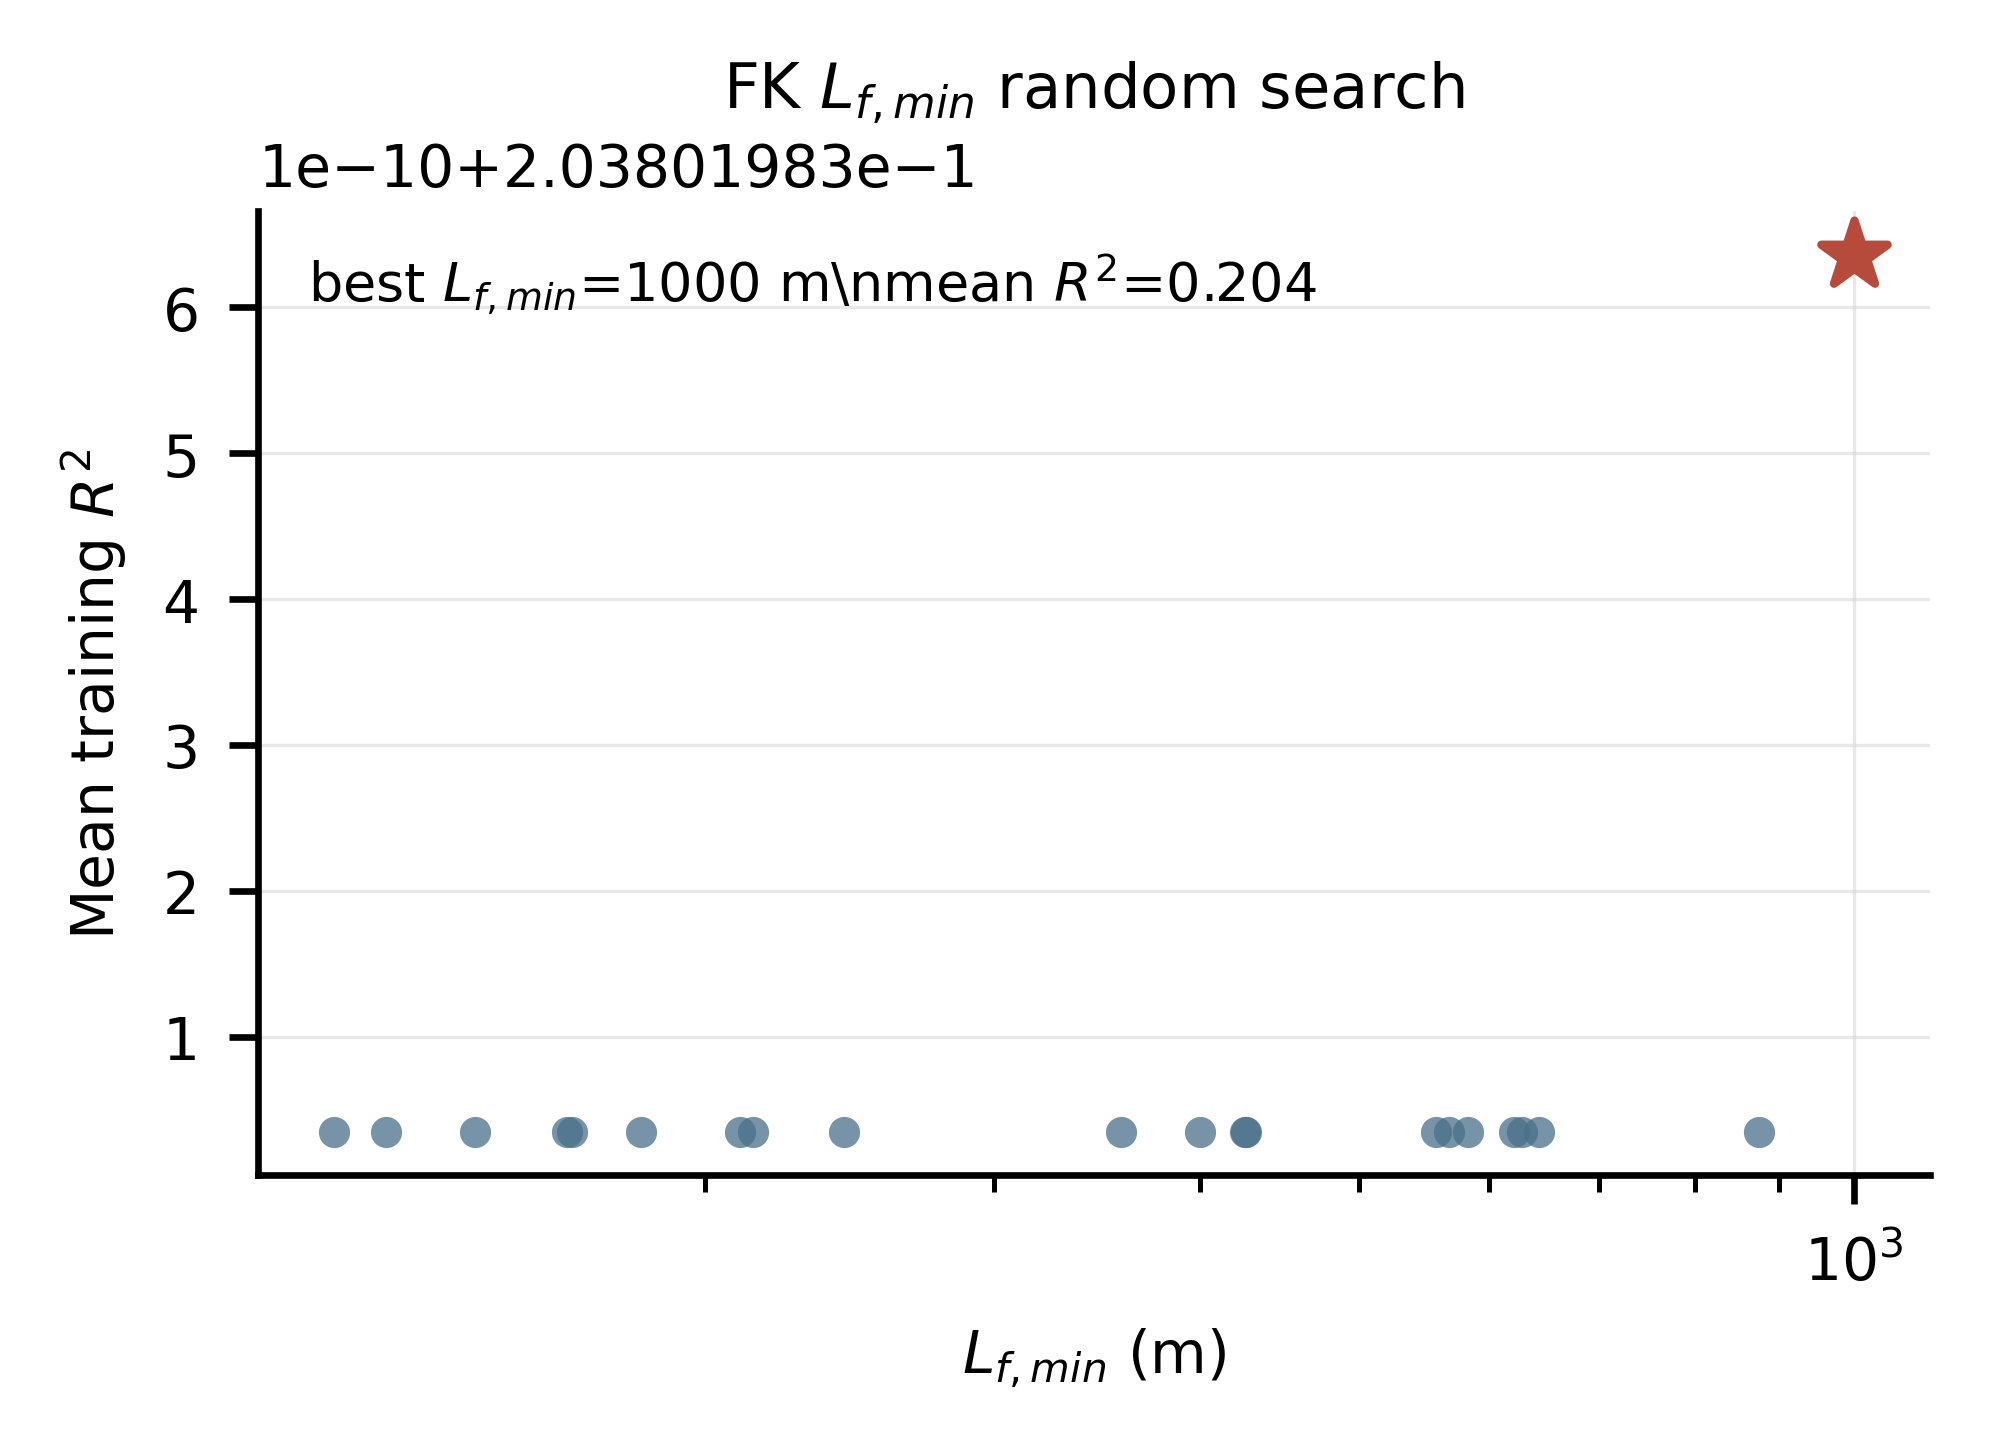
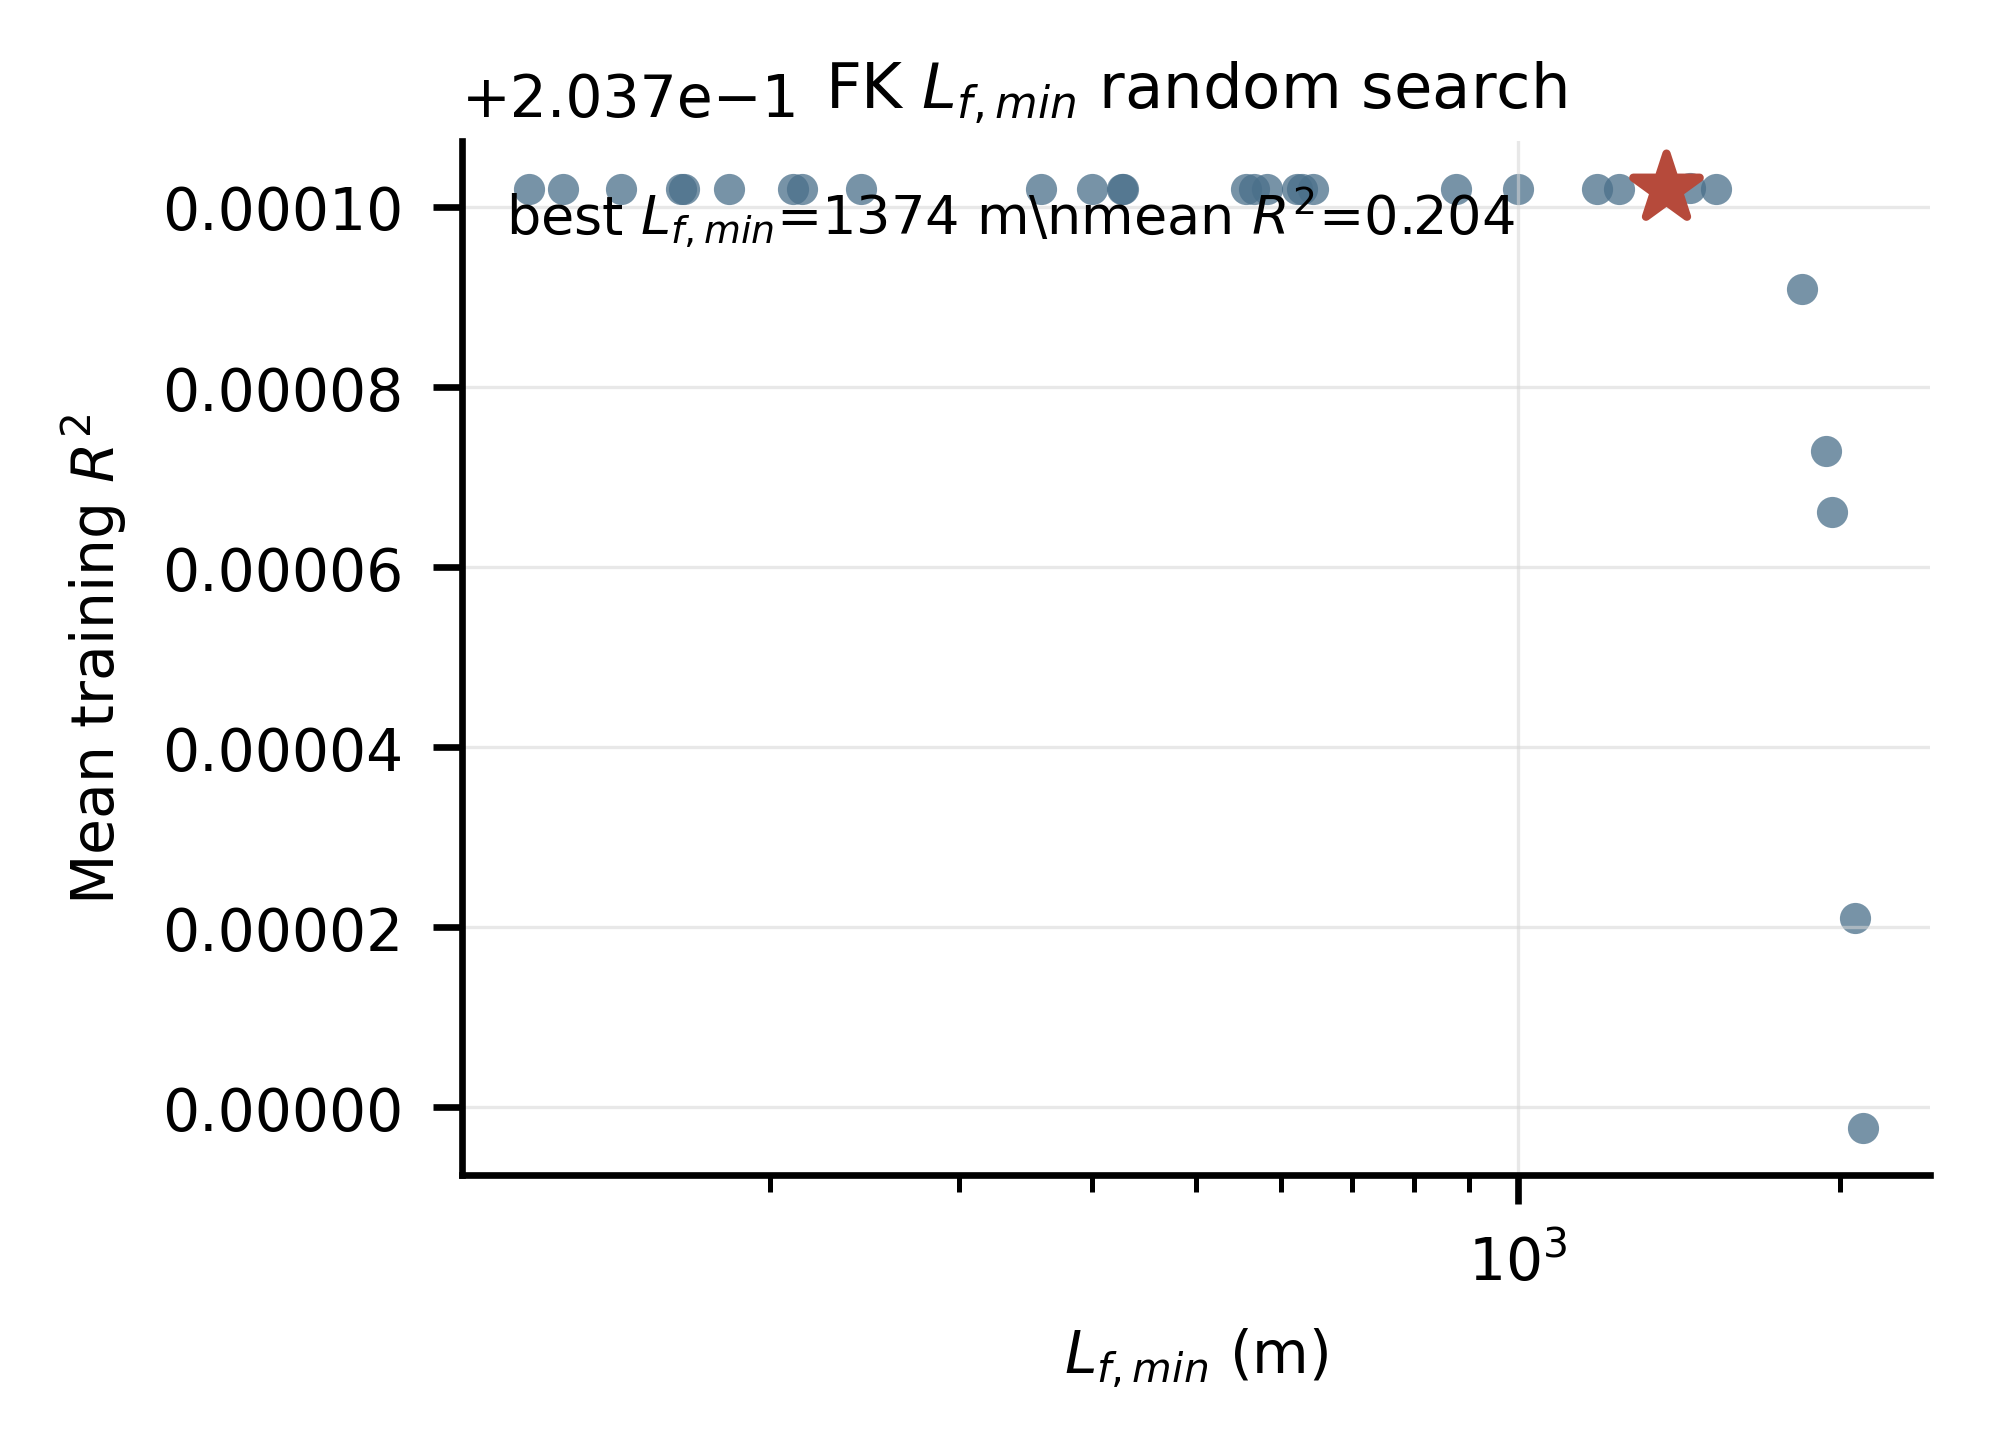
updated the figures based on the new tuned fk mle

diff --git a/_src/analysis/fk_mle/upper_40x20/plot_fk_tuning_combined.py b/_src/analysis/fk_mle/upper_40x20/plot_fk_tuning_combined.py
@@ -1,0 +1,95 @@
+#!/usr/bin/env python3
+"""Plot FK C_e and LfMin sensitivity curves in one simple figure."""
+
+from __future__ import annotations
+
+import argparse
+import csv
+from pathlib import Path
+
+import matplotlib as mpl
+import matplotlib.pyplot as plt
+import numpy as np
+
+HERE = Path(__file__).resolve().parent
+
+
+def parse_args() -> argparse.Namespace:
+    parser = argparse.ArgumentParser(description=__doc__)
+    parser.add_argument("--ce-csv", type=Path, default=HERE / "Ce_base_case_calculation/ce_random_search_history.csv")
+    parser.add_argument("--lfmin-csv", type=Path, default=HERE / "LfMin_test/lfmin_random_search_history.csv")
+    parser.add_argument("--output", type=Path, default=HERE / "fk_random_search_combined_r2.png")
+    return parser.parse_args()
+
+
+def read_xy(path: Path, x_key: str) -> tuple[np.ndarray, np.ndarray]:
+    x, y = [], []
+    with path.open("r", newline="") as handle:
+        reader = csv.DictReader(handle)
+        for row in reader:
+            x.append(float(row[x_key]))
+            y.append(float(row["mean_per_snapshot_r2"]))
+    x_arr = np.asarray(x, dtype=float)
+    y_arr = np.asarray(y, dtype=float)
+    order = np.argsort(x_arr)
+    return x_arr[order], y_arr[order]
+
+
+def apply_style() -> None:
+    mpl.rcParams.update(
+        {
+            "font.family": "sans-serif",
+            "font.sans-serif": ["Arial", "Helvetica", "DejaVu Sans", "Liberation Sans", "sans-serif"],
+            "font.size": 8,
+            "axes.spines.right": False,
+            "axes.spines.top": False,
+            "axes.linewidth": 0.8,
+            "axes.edgecolor": "#777777",
+            "xtick.color": "#333333",
+            "ytick.color": "#333333",
+            "xtick.major.width": 0.8,
+            "ytick.major.width": 0.8,
+            "figure.facecolor": "white",
+            "axes.facecolor": "white",
+        }
+    )
+
+
+def main() -> None:
+    args = parse_args()
+    ce, ce_r2 = read_xy(args.ce_csv, "C_e")
+    lfmin, lfmin_r2 = read_xy(args.lfmin_csv, "LfMin")
+
+    apply_style()
+    fig, axes = plt.subplots(1, 2, figsize=(7.2, 2.8), sharey=False, constrained_layout=True)
+
+    axes[0].scatter(ce, ce_r2, s=26, color="#2C6688", alpha=0.72, linewidths=0, zorder=5)
+    axes[0].set_title(r"$C_e$ sensitivity", fontsize=10, pad=6)
+    axes[0].set_xlabel(r"$C_e$", fontsize=9)
+    axes[0].set_ylabel(r"Mean per-snapshot $R^2$", fontsize=9)
+
+    axes[1].plot(lfmin, lfmin_r2, color="#B84D3E", linewidth=1.2, alpha=0.75, zorder=3)
+    axes[1].scatter(lfmin, lfmin_r2, s=32, color="#B84D3E", edgecolor="white", linewidth=0.5, zorder=5)
+    axes[1].set_xscale("log")
+    axes[1].set_xlim(100, max(2500.0, float(np.nanmax(lfmin)) * 1.15))
+    y_pad = max((float(np.nanmax(lfmin_r2)) - float(np.nanmin(lfmin_r2))) * 0.18, 1.0e-5)
+    axes[1].set_ylim(float(np.nanmin(lfmin_r2)) - y_pad, float(np.nanmax(lfmin_r2)) + y_pad)
+    axes[1].yaxis.set_major_locator(mpl.ticker.MaxNLocator(nbins=4))
+    axes[1].yaxis.set_major_formatter(mpl.ticker.FormatStrFormatter("%.2f"))
+    axes[1].set_title(r"$L_{f,\min}$ sensitivity", fontsize=10, pad=6)
+    axes[1].set_xlabel(r"$L_{f,\min}$ (m)", fontsize=9)
+    axes[1].set_ylabel(r"Mean per-snapshot $R^2$", fontsize=9)
+
+    for ax in axes:
+        ax.set_axisbelow(True)
+        ax.grid(axis="y", color="#E5E5E5", linewidth=0.7, zorder=0)
+        ax.tick_params(labelsize=8)
+
+    args.output.parent.mkdir(parents=True, exist_ok=True)
+    fig.savefig(args.output, dpi=600, bbox_inches="tight")
+    plt.close(fig)
+    print(f"Saved {args.output}", flush=True)
+
+
+if __name__ == "__main__":
+    main()

diff --git a/_src/analysis/fk_mle/upper_40x20/fk_tuning_history_plot.py b/_src/analysis/fk_mle/upper_40x20/fk_tuning_history_plot.py
@@ -1,0 +1,95 @@
+#!/usr/bin/env python3
+"""Plot FK C_e and LfMin sensitivity curves in one simple figure."""
+
+from __future__ import annotations
+
+import argparse
+import csv
+from pathlib import Path
+
+import matplotlib as mpl
+import matplotlib.pyplot as plt
+import numpy as np
+
+HERE = Path(__file__).resolve().parent
+
+
+def parse_args() -> argparse.Namespace:
+    parser = argparse.ArgumentParser(description=__doc__)
+    parser.add_argument("--ce-csv", type=Path, default=HERE / "Ce_base_case_calculation/ce_random_search_history.csv")
+    parser.add_argument("--lfmin-csv", type=Path, default=HERE / "LfMin_test/lfmin_random_search_history.csv")
+    parser.add_argument("--output", type=Path, default=HERE / "fk_random_search_combined_r2.png")
+    return parser.parse_args()
+
+
+def read_xy(path: Path, x_key: str) -> tuple[np.ndarray, np.ndarray]:
+    x, y = [], []
+    with path.open("r", newline="") as handle:
+        reader = csv.DictReader(handle)
+        for row in reader:
+            x.append(float(row[x_key]))
+            y.append(float(row["mean_per_snapshot_r2"]))
+    x_arr = np.asarray(x, dtype=float)
+    y_arr = np.asarray(y, dtype=float)
+    order = np.argsort(x_arr)
+    return x_arr[order], y_arr[order]
+
+
+def apply_style() -> None:
+    mpl.rcParams.update(
+        {
+            "font.family": "sans-serif",
+            "font.sans-serif": ["Arial", "Helvetica", "DejaVu Sans", "Liberation Sans", "sans-serif"],
+            "font.size": 8,
+            "axes.spines.right": False,
+            "axes.spines.top": False,
+            "axes.linewidth": 0.8,
+            "axes.edgecolor": "#777777",
+            "xtick.color": "#333333",
+            "ytick.color": "#333333",
+            "xtick.major.width": 0.8,
+            "ytick.major.width": 0.8,
+            "figure.facecolor": "white",
+            "axes.facecolor": "white",
+        }
+    )
+
+
+def main() -> None:
+    args = parse_args()
+    ce, ce_r2 = read_xy(args.ce_csv, "C_e")
+    lfmin, lfmin_r2 = read_xy(args.lfmin_csv, "LfMin")
+
+    apply_style()
+    fig, axes = plt.subplots(1, 2, figsize=(7.2, 2.8), sharey=False, constrained_layout=True)
+
+    axes[0].scatter(ce, ce_r2, s=26, color="#2C6688", alpha=0.72, linewidths=0, zorder=5)
+    axes[0].set_title(r"$C_e$ sensitivity", fontsize=10, pad=6)
+    axes[0].set_xlabel(r"$C_e$", fontsize=9)
+    axes[0].set_ylabel(r"Mean snapshot $R^2$", fontsize=9)
+
+    axes[1].plot(lfmin, lfmin_r2, color="#B84D3E", linewidth=1.2, alpha=0.75, zorder=3)
+    axes[1].scatter(lfmin, lfmin_r2, s=32, color="#B84D3E", edgecolor="white", linewidth=0.5, zorder=5)
+    axes[1].set_xscale("log")
+    axes[1].set_xlim(100, max(2500.0, float(np.nanmax(lfmin)) * 1.15))
+    y_pad = max((float(np.nanmax(lfmin_r2)) - float(np.nanmin(lfmin_r2))) * 0.18, 1.0e-5)
+    axes[1].set_ylim(float(np.nanmin(lfmin_r2)) - y_pad, float(np.nanmax(lfmin_r2)) + y_pad)
+    axes[1].yaxis.set_major_locator(mpl.ticker.MaxNLocator(nbins=4))
+    axes[1].yaxis.set_major_formatter(mpl.ticker.FormatStrFormatter("%.2f"))
+    axes[1].set_title(r"$L_{f,\min}$ sensitivity", fontsize=10, pad=6)
+    axes[1].set_xlabel(r"$L_{f,\min}$ (m)", fontsize=9)
+    axes[1].set_ylabel(r"Mean snapshot $R^2$", fontsize=9)
+
+    for ax in axes:
+        ax.set_axisbelow(True)
+        ax.grid(axis="y", color="#E5E5E5", linewidth=0.7, zorder=0)
+        ax.tick_params(labelsize=8)
+
+    args.output.parent.mkdir(parents=True, exist_ok=True)
+    fig.savefig(args.output, dpi=600, bbox_inches="tight")
+    plt.close(fig)
+    print(f"Saved {args.output}", flush=True)
+
+
+if __name__ == "__main__":
+    main()
